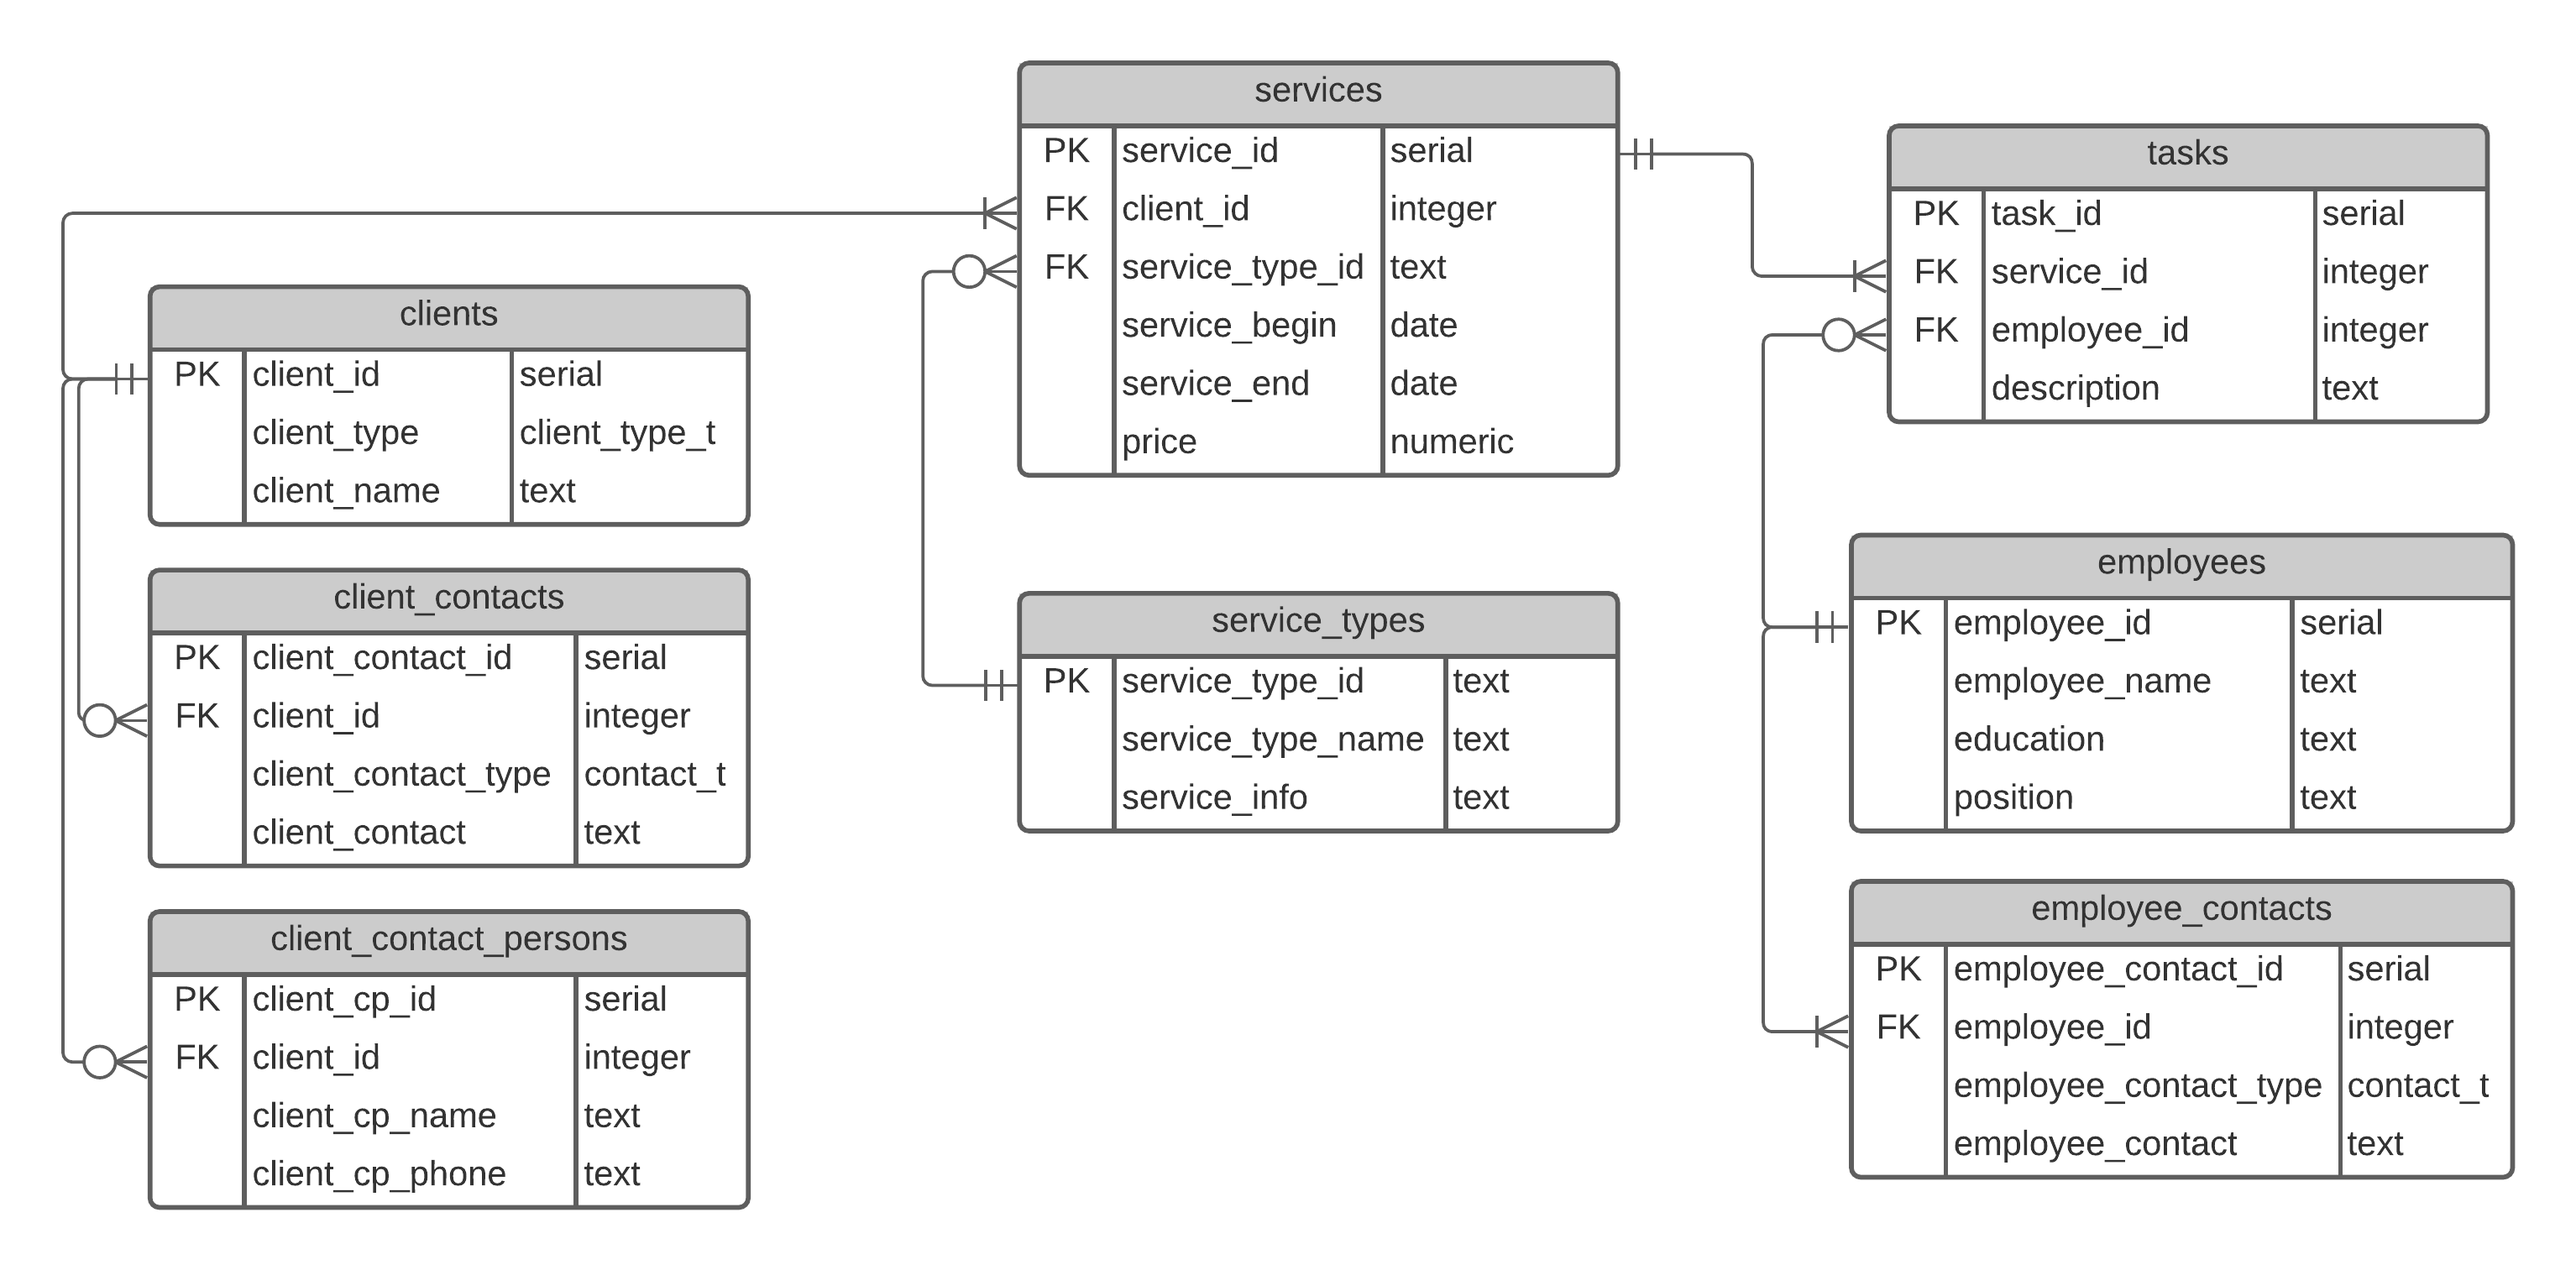
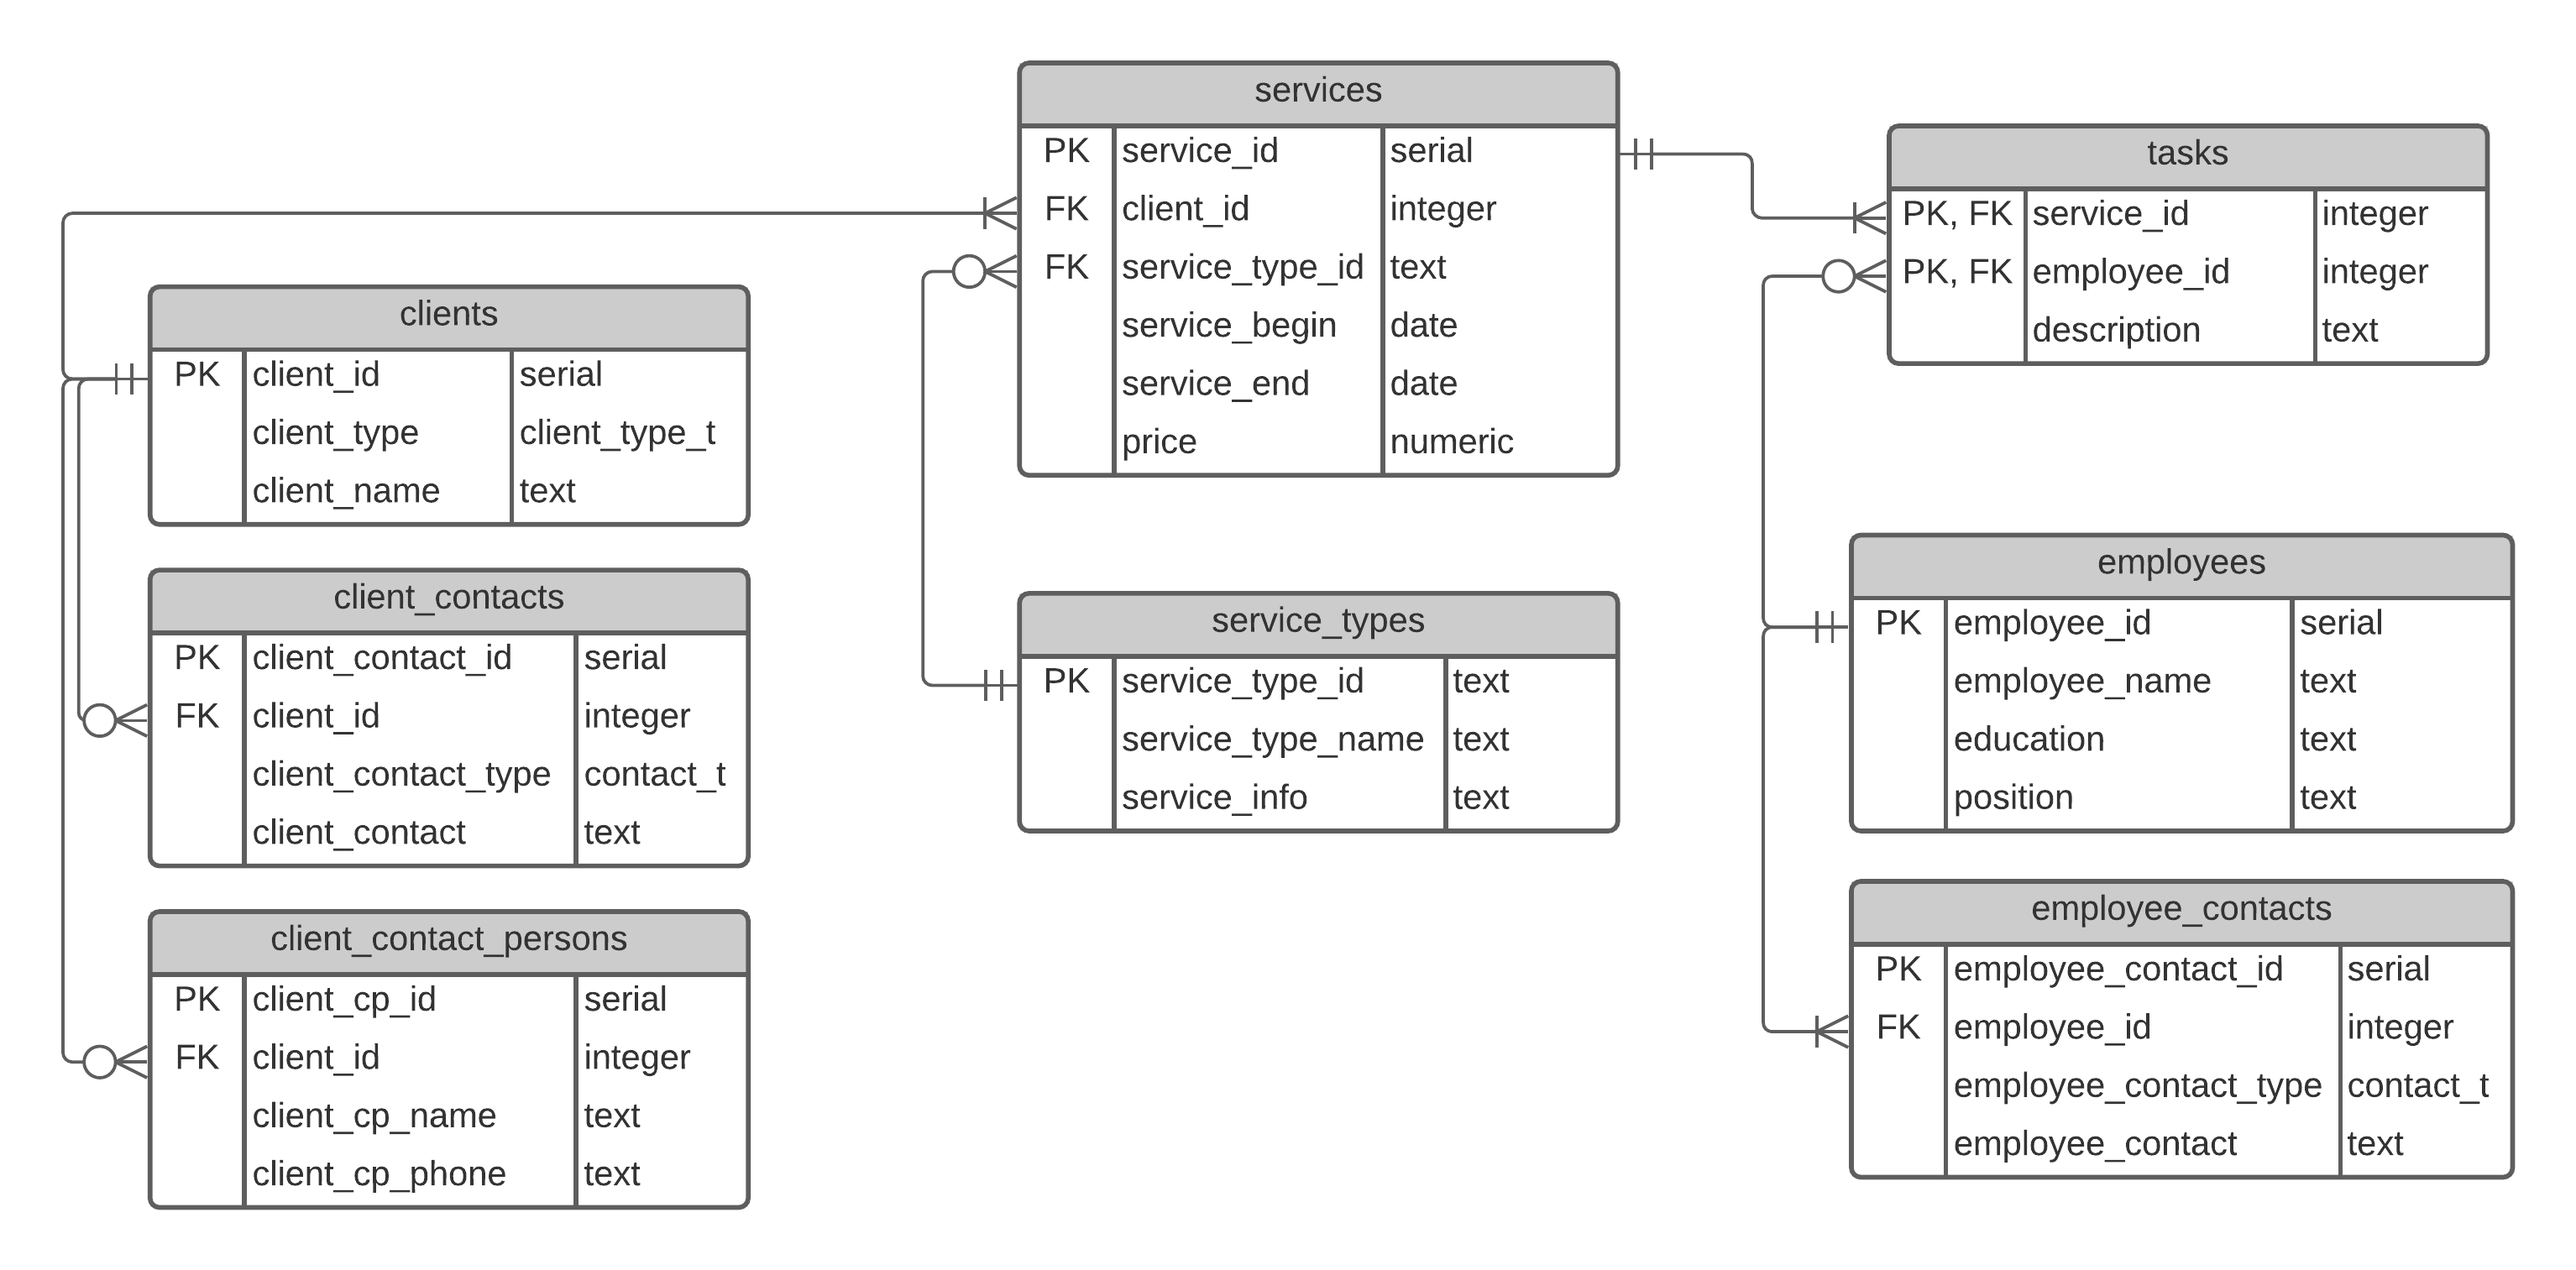
fixed task table and ManyToMany association

Changed region(s): [[0.6812, 0.1553, 0.9599, 0.3417], [0.898, 0.1553, 0.9599, 0.1864]]

diff --git a/src/objects/Task.java b/src/objects/Task.java
@@ -1,30 +1,17 @@
 package objects;
 
 import javax.persistence.Column;
+import javax.persistence.EmbeddedId;
 import javax.persistence.Entity;
-import javax.persistence.GeneratedValue;
-import javax.persistence.GenerationType;
-import javax.persistence.Id;
-import javax.persistence.JoinColumn;
-import javax.persistence.ManyToOne;
 import javax.persistence.Table;
+import javax.persistence.Transient;
 
 @Entity
 @Table(name = "tasks")
 public class Task {
 
-  @Id
-  @Column(name = "task_id", columnDefinition = "serial")
-  @GeneratedValue(strategy = GenerationType.IDENTITY)
-  private int id;
-
-  @ManyToOne
-  @JoinColumn(name = "service_id", nullable = false)
-  private Service service;
-
-  @ManyToOne
-  @JoinColumn(name = "employee_id", nullable = false)
-  private Employee employee;
+  @EmbeddedId
+  private TaskId id;
 
   @Column(name = "description", nullable = false)
   private String description;
@@ -33,33 +20,34 @@ public class Task {
   }
 
   public Task(Service service, Employee employee, String description) {
-    this.service = service;
-    this.employee = employee;
+    this.id = new TaskId(service, employee);
     this.description = description;
   }
 
-  public int getId() {
+  public TaskId getId() {
     return id;
   }
 
-  public void setId(int id) {
+  public void setId(TaskId id) {
     this.id = id;
   }
 
+  @Transient
   public Service getService() {
-    return service;
+    return id.getService();
   }
 
   public void setService(Service service) {
-    this.service = service;
+    id.setService(service);
   }
 
+  @Transient
   public Employee getEmployee() {
-    return employee;
+    return id.getEmployee();
   }
 
   public void setEmployee(Employee employee) {
-    this.employee = employee;
+    id.setEmployee(employee);
   }
 
   public String getDescription() {
@@ -82,7 +70,6 @@ public class Task {
 
     Task other = (Task) oth;
 
-    return id == other.id && service.getId() == other.service.getId() && employee.getId() == other.employee.getId()
-        && description.equals(other.description);
+    return id.equals(other.id) && description.equals(other.description);
   }
 }

diff --git a/src/objects/TaskId.java b/src/objects/TaskId.java
@@ -1,0 +1,60 @@
+package objects;
+
+import java.io.Serializable;
+
+import javax.persistence.Embeddable;
+import javax.persistence.JoinColumn;
+import javax.persistence.ManyToOne;
+
+@Embeddable
+public class TaskId implements Serializable {
+
+  private static final long serialVersionUID = 6923360565294186914L;
+
+  @ManyToOne
+  @JoinColumn(name = "service_id", nullable = false)
+  private Service service;
+
+  @ManyToOne
+  @JoinColumn(name = "employee_id", nullable = false)
+  private Employee employee;
+
+  public TaskId() {
+  }
+
+  TaskId(Service service, Employee employee) {
+    this.service = service;
+    this.employee = employee;
+  }
+
+  public Service getService() {
+    return service;
+  }
+
+  public void setService(Service service) {
+    this.service = service;
+  }
+
+  public Employee getEmployee() {
+    return employee;
+  }
+
+  public void setEmployee(Employee employee) {
+    this.employee = employee;
+  }
+
+  @Override
+  public boolean equals(Object oth) {
+    if (this == oth) {
+      return true;
+    }
+
+    if ((oth == null && this != null) || getClass() != oth.getClass()) {
+      return false;
+    }
+
+    TaskId other = (TaskId) oth;
+
+    return service.getId() == other.service.getId() && employee.getId() == other.employee.getId();
+  }
+}

diff --git a/src/objects/Service.java b/src/objects/Service.java
@@ -35,7 +35,7 @@ public class Service {
   private ServiceType serviceType;
 
   @OneToMany(cascade = CascadeType.ALL)
-  @JoinColumn(name = "service_id")
+  @JoinColumn(name = "service_id", insertable = false, updatable = false)
   private List<Task> tasks;
 
   @Column(name = "service_begin")
